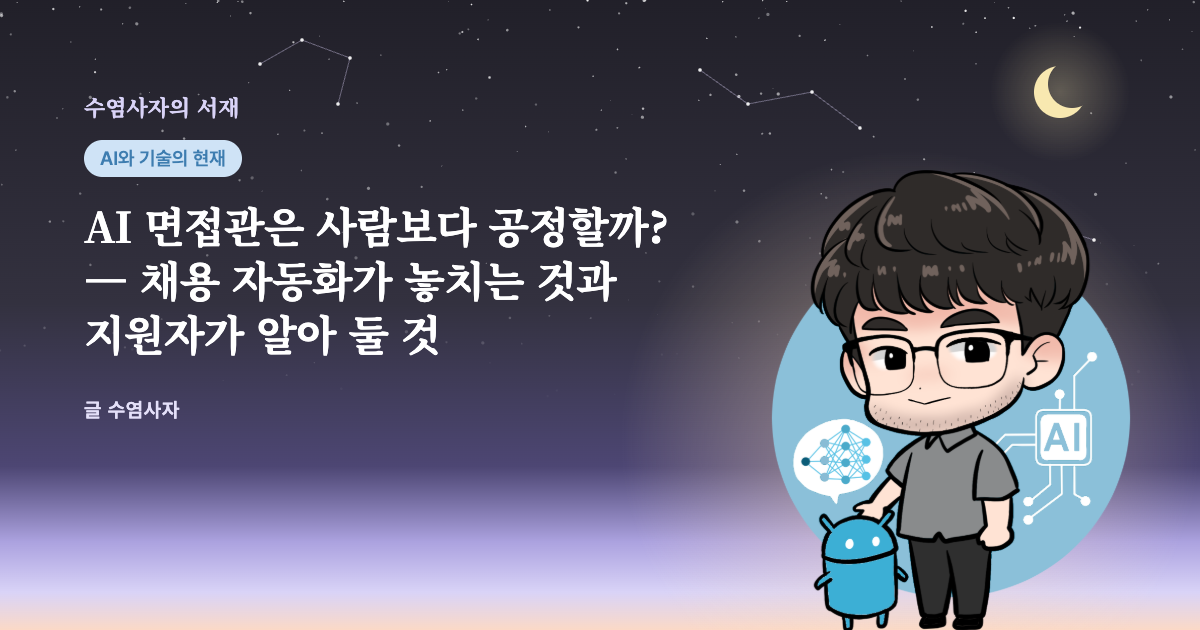
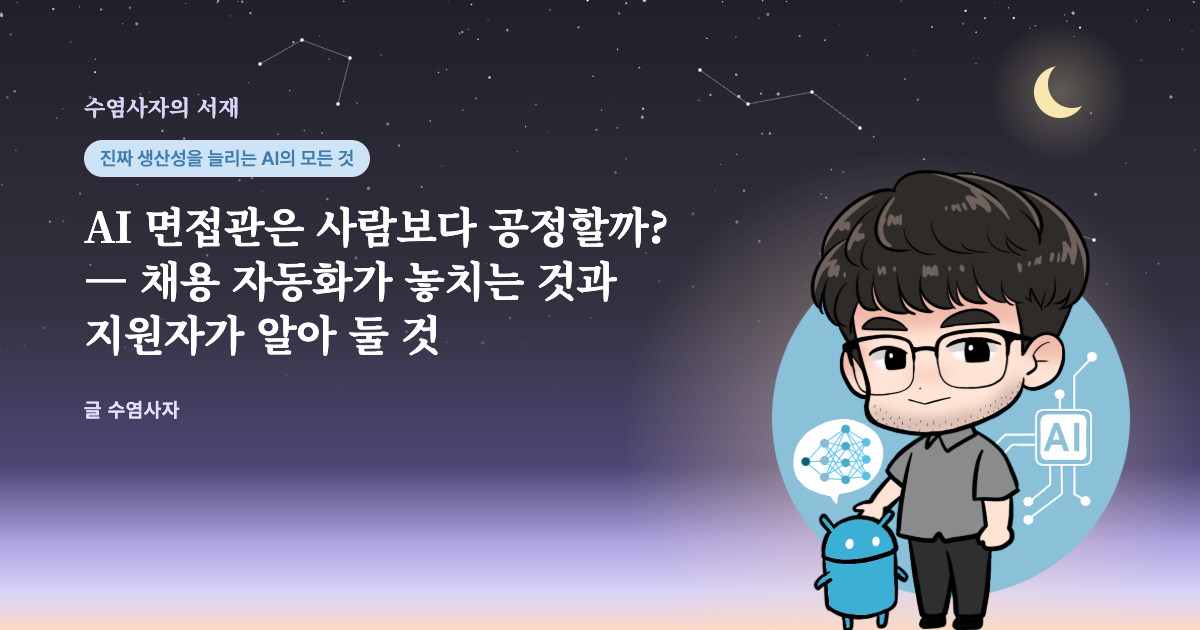
feat: AI 서가 이름을 '진짜 생산성을 늘리는 AI의 모든 것'으로 바꿈
Claude-Session: https://claude.ai/code/session_01J36DQQsi1iZDy94NMGj8jH

Changed region(s): [[0.0617, 0.2111, 0.3083, 0.3016]]

diff --git a/tests/posts.test.ts b/tests/posts.test.ts
@@ -42,7 +42,7 @@ describe('field colours', () => {
     ['philosophy', '철학의 아름다움', 'lav'],
     ['classics', '다시 보는 고전과 예술', 'rose'],
     ['economy', '돈과 세상의 원리', 'sky'],
-    ['tech', 'AI와 기술의 현재', 'sky'],
+    ['tech', '진짜 생산성을 늘리는 AI의 모든 것', 'sky'],
     ['nature', '인류와 생명의 수수께끼', 'mint'],
   ]
   it('assigns each of the seven shelves its colour, in the same menu order', () => {

diff --git a/src/config/site.ts b/src/config/site.ts
@@ -21,7 +21,7 @@ const CATEGORY_LIST: [slug: string, name: string, color: PaletteKey][] = [
   ['philosophy', '철학의 아름다움', 'lav'],
   ['classics', '다시 보는 고전과 예술', 'rose'],
   ['economy', '돈과 세상의 원리', 'sky'],
-  ['tech', 'AI와 기술의 현재', 'sky'],
+  ['tech', '진짜 생산성을 늘리는 AI의 모든 것', 'sky'],
   ['nature', '인류와 생명의 수수께끼', 'mint'],
 ]
 
